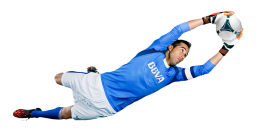
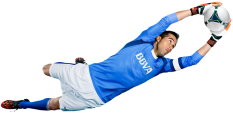
se añadio dificultad creciente

Changed region(s): [[0.0, 0.0, 1.0, 1.0], [0.4807, 0.4513, 0.5107, 0.5044], [0.5408, 0.5841, 0.5708, 0.6106]]

diff --git a/core/src/main/java/juego/ArqueroClaudioBravo.java b/core/src/main/java/juego/ArqueroClaudioBravo.java
@@ -12,50 +12,74 @@ public class ArqueroClaudioBravo extends EntidadMovil {
     private int vidas = 3;
     private int atajadas = 0;
     private int golesRecibidos = 0;
-    // Eliminada: private boolean celebrando = false;
-    // Eliminada: private int tiempoCelebracionMax = 30;
-    // Eliminada: private int tiempoCelebracion;
+    
+    // Atributos para el Dash
+    private final float VELOCIDAD_BASE = 500f; // CAMBIO: float
+    private final float VELOCIDAD_DASH = 1500f; 
+    private final float DASH_DURACION = 0.15f; 
+    private final float DASH_COOLDOWN = 1.0f; 
+    private float tiempoDashRestante = 0;
+    private float tiempoCooldownRestante = 0;
 
     public ArqueroClaudioBravo(Texture textura, Sound atajadaSound, Sound golSound) {
-        super(textura, 500); // Velocidad del movimiento
+        super(textura, 500f); // CAMBIO: velocidad base a float
         this.sonidoAtajada = atajadaSound;
         this.sonidoGol = golSound;
     }
 
     @Override
     public void mover(float delta) {
-        // Movimiento desde teclado
-        if(Gdx.input.isKeyPressed(Input.Keys.LEFT)) 
-            area.x -= velocidad * delta;
-        if(Gdx.input.isKeyPressed(Input.Keys.RIGHT)) 
-            area.x += velocidad * delta;
+        
+        // 1. Actualizar temporizadores de Dash
+        if (tiempoDashRestante > 0) {
+            tiempoDashRestante -= delta;
+            if (tiempoDashRestante <= 0) {
+                super.velocidad = VELOCIDAD_BASE;
+                tiempoCooldownRestante = DASH_COOLDOWN;
+            }
+        } else if (tiempoCooldownRestante > 0) {
+            tiempoCooldownRestante -= delta;
+        }
+        
+        // 2. Movimiento (A y D)
+        float currentSpeed = super.velocidad;
+        
+        // Mover Izquierda (A)
+        if(Gdx.input.isKeyPressed(Input.Keys.A)) 
+            area.x -= currentSpeed * delta;
+        
+        // Mover Derecha (D)
+        if(Gdx.input.isKeyPressed(Input.Keys.D)) 
+            area.x += currentSpeed * delta;
+            
+        // 3. Activación de Dash (ESPACIO)
+        if (Gdx.input.isKeyJustPressed(Input.Keys.SPACE) && tiempoCooldownRestante <= 0) {
+            super.velocidad = VELOCIDAD_DASH;
+            tiempoDashRestante = DASH_DURACION;
+        }
 
-        // Limites de la cancha
-        if(area.x < 50) area.x = 50; // Límite izquierdo
-        if(area.x > 650) area.x = 650; // Límite derecho
-
-        // Eliminada: Lógica de animación de celebración
+        // 4. Limites de la cancha
+        if(area.x < 50) area.x = 50;
+        // 800 (ancho pantalla) - area.width (233) - 50 (margen)
+        if(area.x > 800 - area.width - 50) area.x = 800 - area.width - 50; 
     }
 
     @Override
     public void dibujar(SpriteBatch batch) {
-        // Simplificado para solo dibujar la textura
-        batch.draw(textura, area.x, area.y);
+        batch.draw(textura, area.x, area.y, area.width, area.height);
     }
 
     public void atajar() {
         atajadas++;
-        // Eliminada: lógica de iniciar celebración
-        sonidoAtajada.play();
     }
 
     public void recibirGol() {
         golesRecibidos++;
         vidas--;
-        sonidoGol.play();
+        sonidoGol.play(0.85f);
     }
 
-    // Métodos para implementar la lógica de Premios (Encapsulamiento)
+    // Métodos para Premios
     public void agregarVida() {
         vidas++;
     }
@@ -64,11 +88,10 @@ public class ArqueroClaudioBravo extends EntidadMovil {
         atajadas += puntos;
     }
 
-    // Getters encapsulados
+    // Getters
     public int getVidas() { return vidas; }
     public int getAtajadas() { return atajadas; }
     public int getGolesRecibidos() { return golesRecibidos; }
-    // Eliminada: public boolean estaCelebrando() { return celebrando; }
 
     public void destruir() {
         textura.dispose();

diff --git a/core/src/main/java/juego/SistemaDeJuego.java b/core/src/main/java/juego/SistemaDeJuego.java
@@ -14,6 +14,12 @@ public class SistemaDeJuego {
     private Array<Colisionable> objetos;
     private Array<Rectangle> posiciones;
     private long ultimoTiempoCreacion;
+    private long tiempoInicioJuego; 
+    
+    // Parámetros de dificultad
+    private final float VELOCIDAD_BASE = 200f; 
+    private final float INCREMENTO_POR_SEGUNDO = 10f;
+
     private Texture balonNormal;
     private Texture balonDificil;
     private Texture premioVida;
@@ -40,8 +46,12 @@ public class SistemaDeJuego {
     public void crear() {
         objetos = new Array<Colisionable>();
         posiciones = new Array<Rectangle>();
+        
+        tiempoInicioJuego = TimeUtils.nanoTime(); 
+        
         crearObjeto();
         musicaFondo.setLooping(true);
+        musicaFondo.setVolume(0.4f); 
         musicaFondo.play();
     }
 
@@ -53,21 +63,33 @@ public class SistemaDeJuego {
         posicion.height = 64;
         posiciones.add(posicion);
 
+        // 1. Calcular la velocidad base actual
+        float tiempoTranscurrido = (TimeUtils.nanoTime() - tiempoInicioJuego) / 1_000_000_000f;
+        float velocidadBaseActual = VELOCIDAD_BASE + (tiempoTranscurrido * INCREMENTO_POR_SEGUNDO);
+        float velocidadFinal;
+
         int tipoObjeto = MathUtils.random(1, 10);
         Colisionable objeto;
 
-        // Se reutiliza la instancia de Texture existente (corrección de Memory Leak)
-        if (tipoObjeto <= 5) { // 50% balones normales
-            objeto = new Balon(balonNormal, sonidoAtajada, 1);
-        } else if (tipoObjeto <= 8) { // 30% balones difíciles
-            objeto = new Balon(balonDificil, sonidoGol, 2);
-        } else if (tipoObjeto <= 9) { // 10% premio vida
-            objeto = new Premio(premioVida, sonidoPremio, 3);
-        } else { // 10% premio puntos
-            objeto = new Premio(premioPuntos, sonidoPremio, 4);
+        // 2. Crear objeto y calcular velocidad final según el tipo
+        if (tipoObjeto <= 5) { 
+            velocidadFinal = velocidadBaseActual; 
+            // CORRECCIÓN: Llamada al constructor de Balon con velocidad float
+            objeto = new Balon(balonNormal, sonidoAtajada, 1, velocidadFinal);
+        } else if (tipoObjeto <= 8) { 
+            velocidadFinal = velocidadBaseActual * 1.5f; 
+            // CORRECCIÓN: Llamada al constructor de Balon con velocidad float
+            objeto = new Balon(balonDificil, sonidoGol, 2, velocidadFinal);
+        } else if (tipoObjeto <= 9) { 
+            velocidadFinal = velocidadBaseActual * 0.7f; 
+            // CORRECCIÓN: Llamada al constructor de Premio con velocidad float
+            objeto = new Premio(premioVida, sonidoPremio, 3, velocidadFinal);
+        } else { 
+            velocidadFinal = velocidadBaseActual * 0.7f; 
+            // CORRECCIÓN: Llamada al constructor de Premio con velocidad float
+            objeto = new Premio(premioPuntos, sonidoPremio, 4, velocidadFinal);
         }
 
-        // Usar el método crear de EntidadMovil
         ((EntidadMovil)objeto).crear(posicion.x, posicion.y, 64, 64);
         objetos.add(objeto);
         ultimoTiempoCreacion = TimeUtils.nanoTime();
@@ -95,13 +117,13 @@ public class SistemaDeJuego {
                 posiciones.removeIndex(i);
 
                 if (arquero.getVidas() <= 0) {
-                    return false; // Game Over
+                    return false;
                 }
             }
         }
         return true;
     }
-
+    
     public void actualizarDibujo(SpriteBatch batch) {
         for (Colisionable objeto : objetos) {
             ((EntidadMovil)objeto).dibujar(batch);

diff --git a/core/src/main/java/juego/EntidadMovil.java b/core/src/main/java/juego/EntidadMovil.java
@@ -7,35 +7,35 @@ import com.badlogic.gdx.math.Rectangle;
 public abstract class EntidadMovil {
     protected Rectangle area;
     protected Texture textura;
-    protected int velocidad;
-    
-    public EntidadMovil(Texture textura, int velocidad) {
+    protected float velocidad; // CAMBIO: de int a float
+
+    public EntidadMovil(Texture textura, float velocidad) { // CAMBIO: velocidad es float
         this.textura = textura;
         this.velocidad = velocidad;
         this.area = new Rectangle();
     }
-    
+
     // Método abstracto que deben implementar las subclases
     public abstract void mover(float delta);
-    
+
     public void dibujar(SpriteBatch batch) {
-        batch.draw(textura, area.x, area.y);
+        // Se asegura que se dibuje con el tamaño del área (importante para Claudio Bravo)
+        batch.draw(textura, area.x, area.y, area.width, area.height); 
     }
-    
+
     public Rectangle getArea() {
         return area;
     }
-    
+
     public void crear(float x, float y, float ancho, float alto) {
         area.x = x;
         area.y = y;
         area.width = ancho;
         area.height = alto;
     }
-    
+
     public void dispose() {
-
-        textura.dispose();
-
+        // Se puede dejar así, asumiendo que el SistemaDeJuego libera las texturas compartidas.
+        // Si esta entidad tuviera una textura única, debería tener 'textura.dispose();'
     }
 }

diff --git a/core/src/main/java/juego/Premio.java b/core/src/main/java/juego/Premio.java
@@ -7,8 +7,9 @@ public class Premio extends EntidadMovil implements Colisionable {
     private Sound sonido;
     private int tipo; // 3: Premio vida extra, 4: Premio puntos extra
 
-    public Premio(Texture textura, Sound sonido, int tipo) {
-        super(textura, 150);
+    // Constructor con velocidad como float
+    public Premio(Texture textura, Sound sonido, int tipo, float velocidad) {
+        super(textura, velocidad);
         this.sonido = sonido;
         this.tipo = tipo;
     }
@@ -20,12 +21,10 @@ public class Premio extends EntidadMovil implements Colisionable {
 
     @Override
     public void alColisionar(ArqueroClaudioBravo arquero) {
-        sonido.play();
+        sonido.play(0.95f); 
         if (tipo == 3) {
-            // Vida extra: Aumenta una vida (usando el método encapsulado)
             arquero.agregarVida();
         } else if (tipo == 4) {
-            // Puntos extra: Suma 10 atajadas (usando el método encapsulado)
             arquero.sumarPuntos(10);
         }
     }

diff --git a/core/src/main/java/juego/Balon.java b/core/src/main/java/juego/Balon.java
@@ -7,8 +7,9 @@ public class Balon extends EntidadMovil implements Colisionable {
     private Sound sonido;
     private int tipo; // 1: Balón normal, 2: Balón difícil
     
-    public Balon(Texture textura, Sound sonido, int tipo) {
-        super(textura, 200);
+    // Constructor con velocidad como float
+    public Balon(Texture textura, Sound sonido, int tipo, float velocidad) {
+        super(textura, velocidad);
         this.sonido = sonido;
         this.tipo = tipo;
     }
@@ -21,11 +22,11 @@ public class Balon extends EntidadMovil implements Colisionable {
     @Override
     public void alColisionar(ArqueroClaudioBravo arquero) {
         if (tipo == 1) {
-            arquero.atajar(); // Ataja balón normal
+            arquero.atajar();
         } else {
-            arquero.recibirGol(); // Gol con balón difícil
+            arquero.recibirGol();
         }
-        sonido.play();
+        sonido.play(0.6f);
     }
     
     @Override

diff --git a/core/src/main/java/juego/GameScreen.java b/core/src/main/java/juego/GameScreen.java
@@ -48,12 +48,11 @@ public class GameScreen implements Screen {
         );
 
         camera = new OrthographicCamera();
-        camera.setToOrtho(false, 800, 480);
-        
-        // ¡CORRECCIÓN! Usar el batch existente
-        // batch = new SpriteBatch(); 
+        camera.setToOrtho(false, 800, 480); 
 
-        arquero.crear(400 - 32, 20, 64, 64);
+        float anchoArquero = 233;
+        float altoArquero = 113;
+        arquero.crear(400 - (anchoArquero / 2), 20, anchoArquero, altoArquero);
         sistema.crear();
     }
 
